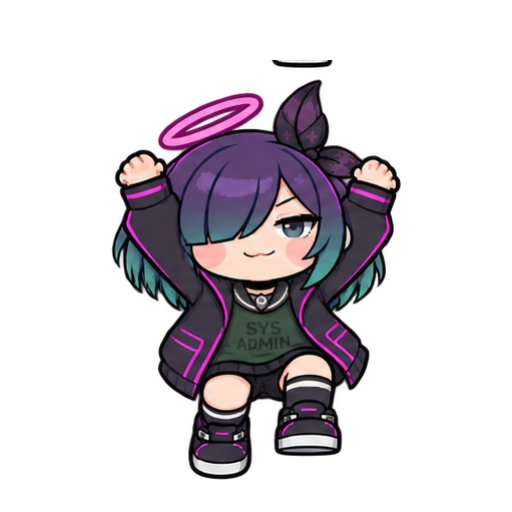
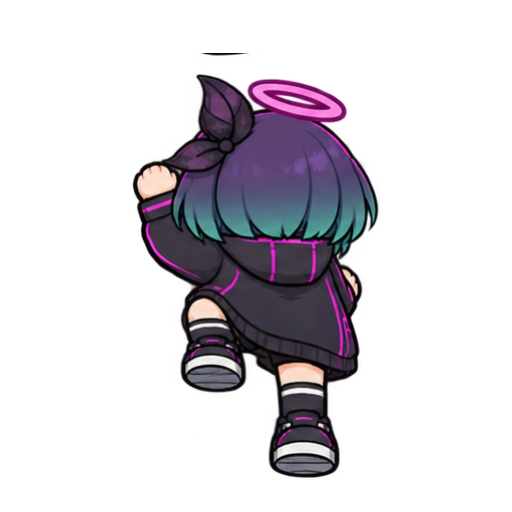
fix: show climbing animations from behind

Changed region(s): [[0.2188, 0.0938, 0.7812, 0.9375]]

diff --git a/docs/design/0008-window-climbing-behaviors.md b/docs/design/0008-window-climbing-behaviors.md
@@ -2,7 +2,7 @@
 id: 0008-window-climbing-behaviors
 title: Window Climbing Behaviors
 tier: M
-status: approved
+status: implemented
 issue:
 owner: antio
 created: 2026-09-20
@@ -26,10 +26,10 @@ created: 2026-09-20
 
 | ID | 수용 기준 | 검증 방법 |
 |---|---|---|
-| AC-1 | 애니메이션 패키지는 `rope_climb_*`, `free_climb_*` 의미 ID를 제공한다. | asset 파이프라인 테스트와 별도 아트 작업에서 검증한다. |
+| AC-1 | 애니메이션 패키지는 `rope_climb_*`, `free_climb_*` 의미 ID를 제공하며 prepare/loop는 캐릭터의 후면을 보여준다. finish는 상단 도달 뒤 canonical idle로 수렴한다. | asset 파이프라인 테스트와 scale audit sheet로 검증한다. |
 | AC-2 | 걷기 leading edge가 더 높은 전면/최상위 노출 Window의 좌/우 변과 만날 때, 그 창이 비최대화이고 두 상단 간 높이차가 pet 높이보다 크면 rope climb이 시작한다. 고정 X로 그 장애물 변을 올라가 해당 창 상단에서 idle한다. | `PetAnimationControllerTests`의 좌·우 edge, 최대화·taskbar·여백·비전면 음성 게이트 테스트. |
 | AC-3 | idle 자율 행동은 결정론적으로 1.25~3.0 pet-height 목표를 뽑아 fixed X로 free climb한다. 경로의 노출 창 상단을 만나면 idle, 목표까지 못 만나면 Falling이다. | `PetAnimationControllerTests`의 intercept/no-intercept geometry 및 trace 테스트. |
-| AC-4 | 새 클립의 raster artwork과 pack 등록은 아트 작업 단위에서 제공한다. | asset 파이프라인 테스트. |
+| AC-4 | 새 클립의 raster artwork과 pack 등록은 공통 512×512 캡처박스와 canonical idle calibration 기준을 사용한다. | asset 파이프라인 테스트와 frame metrics. |
 | AC-5 | rope climb 중 장애물 앵커가 더 이상 유효하지 않으면 Falling으로 전이한다. | `PetAnimationControllerTests` anchor-loss 테스트. |
 | AC-6 | drag 및 exit는 prepare/loop/finish 어느 단계든 클라이밍 transient state를 지우고 각각 drag/exit 상태로 전이한다. | `PetAnimationControllerTests` cleanup 테스트. |
 
@@ -41,6 +41,7 @@ created: 2026-09-20
 | Z-order | Windows provider는 `EnumWindows` 순서를 `ZOrder`로 보존하고 `DesktopSurfaceSelector.IsTopExposed`로 가려진 상단을 제외한다. | foreground 또는 최상위 노출 창만 climb 후보로 삼는다. |
 | 런타임 | `PetAnimationController`가 animation completion과 Tick 기반 이동을 함께 소유한다. | prepare/finish는 completion, loop 이동은 Tick으로 분리한다. |
 | 랜덤성 | `BehaviorPlanner`는 주입된 `IRandomSource`를 쓴다. | free-climb 높이도 planner에서 동일 random source로 샘플한다. |
+| 시점 | 등반 중 정면 포즈는 벽/밧줄과의 접촉 방향을 흐린다. | prepare/loop/finish action frame은 후면 또는 후면 3/4 시점으로 그리고, terminal calibration frame만 정면 idle을 사용한다. |
 
 ## 4. 유스케이스 / 시나리오
 
@@ -94,9 +95,9 @@ stateDiagram-v2
 
 | 상태 | 저장/이벤트 | UI 반응 |
 |---|---|---|
-| RopeClimbPreparing / FreeClimbPreparing | climb plan과 anchor를 보존한다. | prepare clip을 재생한다. |
-| RopeClimbing / FreeClimbing | fixed X, 시작 Y, 목표 Y를 보존하고 Tick마다 후보 top을 조회한다. | loop clip 재생 및 위로 이동한다. |
-| ClimbFinishing | 도착한 surface를 support로 보존한다. | finish clip 후 idle한다. |
+| RopeClimbPreparing / FreeClimbPreparing | climb plan과 anchor를 보존한다. | 후면 prepare clip을 재생한다. |
+| RopeClimbing / FreeClimbing | fixed X, 시작 Y, 목표 Y를 보존하고 Tick마다 후보 top을 조회한다. | 후면 loop clip 재생 및 위로 이동한다. |
+| ClimbFinishing | 도착한 surface를 support로 보존한다. | 후면 top-out frame과 canonical idle frame으로 구성된 finish clip 후 idle한다. |
 | Falling / DraggingIdle / Exiting | plan·anchor를 모두 비운다. | 기존 fall/drag/exit clip을 재생한다. |
 
 ## 9. 변경 지점
@@ -110,6 +111,9 @@ stateDiagram-v2
 | `src/Bolttagu.Platform.Windows/DesktopSurfaceProvider.cs` | foreground/maximized Windows query와 exposed obstacle/intercept. |
 | `tests/Bolttagu.Runtime.Tests/PetAnimationControllerTests.cs` | trace, geometry 및 negative-gate tests. |
 | `tests/Bolttagu.Architecture.Tests/DesktopSurfaceSelectorTests.cs` | deterministic front/top candidate selection tests. |
+| `asset/bolttagu/derived/model/*-climb-grid-v1.png` | 후면 rope/free climb 원본 시트와 마지막 idle 검수 셀. |
+| `asset/bolttagu/derived/model/canonical-idle-calibration-v1.png` | 클립 간 공통 스케일·발 기준선. |
+| `asset/bolttagu/derived/animations/pack.json` | 6개 climb clip의 타이밍과 runtime frame 등록. |
 | `docs/design/0008-window-climbing-behaviors.md` | this feature contract. |
 
 ## 10. 잠재 문제 & 대응
@@ -118,11 +122,13 @@ stateDiagram-v2
 |---|---|
 | EnumWindows와 foreground가 관찰 사이에 바뀔 수 있다. | 매 Tick anchor를 refresh하며 false면 fall한다. |
 | 창 테두리 DPI 변환에 1px 오차가 있다. | 기존 provider와 같이 overlay DPI를 사용하고 top snap만 provider bounds를 신뢰한다. |
-| 새 art pack이 런타임보다 늦게 등록될 수 있다. | runtime은 semantic clip만 선언하고 asset 작업이 pack coverage를 검증한다. |
+| 생성 시트마다 머리·몸 비율이 달라질 수 있다. | 각 시트 마지막 idle은 육안 비교용으로 두고, 실제 빌드는 공유 canonical idle의 alpha bounds로 scale을 고정한다. |
+| 후면 climb에서 idle로 전환할 때 시점이 튈 수 있다. | finish action frame을 top-out 후면 포즈로 제한하고 terminal frame을 공통 idle로 고정한다. |
 
 ## 11. 착수 순서
 
-- [ ] 0. art producer가 semantic clip raster와 pack coverage를 추가한다. (AC-1, AC-4)
+- [x] 0. art producer가 후면 semantic clip raster와 pack coverage를 추가한다. (AC-1, AC-4)
 - [x] 1. DesktopSurface metadata와 deterministic selector/provider query를 추가한다. (AC-2, AC-3, AC-5)
 - [x] 2. clip/state/planner contract와 rope/free climb runtime slice를 추가한다. (AC-2, AC-3, AC-6)
 - [x] 3. geometry, negative-gate, interrupt cleanup 테스트를 추가하고 관련 suite를 실행한다. (AC-2, AC-3, AC-5, AC-6)
+- [x] 4. canonical idle calibration, scale audit, 전체 65개 테스트로 아트/런타임 통합을 검증한다. (AC-1~AC-6)

diff --git a/docs/design/0007-animation-transition-grammar.md b/docs/design/0007-animation-transition-grammar.md
@@ -137,7 +137,7 @@ stateDiagram-v2
 | Dragging | pose=Hanging, velocity filter | release는 surface 거리와 무관하게 Falling으로 전이. |
 | Falling | pose=Airborne, fall origin, landing target | fall loop; motion 완료가 Landing을 발생시킴. |
 | Landing/Recovering | pose=GroundedCompressed → Standing | 낮은 낙하는 impact clip, 260px 이상 낙하는 착석·어지럼·한 번의 기상을 포함한 단일 recovery clip을 끝낸 뒤 IdleHub로 간다. |
-| Climbing *(후속)* | pose=Climbing, wall/top surface, progress | wall 상실 시 Falling; 정상 완료 시 top landing/recover. |
+| Climbing | pose=Climbing, wall/top surface, progress | wall 상실 시 Falling; 정상 완료 시 후면 top-out과 canonical idle을 거쳐 IdleHub. |
 | Exiting | 모든 behavior 임시 상태 제거, exit deadline | despawn 외 입력 무시, 완료/timeout 후 종료. |
 
 ### 자세 계약
@@ -149,7 +149,7 @@ stateDiagram-v2
 | Hanging | drag_held_idle, drag_pulled | Airborne만 허용 |
 | Airborne | fall | GroundedCompressed만 허용 |
 | GroundedCompressed | drop_land, land_recover | Standing |
-| Climbing | climb_prepare, climb_loop, climb_finish | top landing 또는 Airborne |
+| Climbing | rope/free climb_prepare, climb_loop, climb_finish | top landing의 Standing 또는 Airborne |
 
 ### 우선순위와 중단
 
@@ -172,7 +172,8 @@ stateDiagram-v2
 | LookAround | 25 | Standing | `LookAround` |
 | Stretch | 20 | Standing | `Stretch` |
 | SitDoze | 15 | locomotion 후 8초, 사용자 입력 후 10초 경과 | `SitDown → SitSettle[1..2] → DozeEnter → DozeLoop[2..5] → WakeUp → StandUp` |
-| WallClimb *(후속)* | 별도 튜닝 | 도달 가능한 수직면·상단 surface 존재 | `WalkToWall → ClimbPrepare → ClimbLoop[n] → ClimbFinish → LandRecover` |
+| RopeClimb | 별도 튜닝 | 보행 중 더 높은 전면 비최대화 창의 좌/우 변과 충돌 | `Walk → RopeClimbPrepare → RopeClimbLoop[n] → RopeClimbFinish → IdleHub` |
+| FreeClimb | 별도 튜닝 | IdleHub random 선택과 1.25~3.0 pet-height 목표 | `IdleHub → FreeClimbPrepare → FreeClimbLoop[n] → (ClimbFinish → IdleHub | Falling)` |
 
 ## 7. 타이밍 (sequence) *(선택 — 이 tier 에선 생략 가능)*
 
@@ -207,7 +208,7 @@ stateDiagram-v2
 | click 자세별 reaction을 전부 만들면 아트 비용이 커진다. | 첫 버전은 Standing click과 DozeStartle만 만들고, 전용 bridge가 없는 posture에서는 pose를 깨는 fallback clip을 재생하지 않는다. |
 | drag release 직후 실제 낙하 거리가 0px일 수 있다. | Falling을 최소 한 Tick 유지한 뒤 같은 surface에 landing해도 fall→land 인과 trace와 최소 anticipation frame을 보장한다. 낙하 시작 top과 착지 top의 차이가 260px 이상일 때만 어지럼 회복을 추가한다. |
 | 최근 2개 반복 금지로 후보가 모두 제거될 수 있다. | IdleBreathe를 행동이 아닌 안전 fallback으로 두고 다음 deadline에 다시 선택한다. |
-| wall climb은 occlusion·수직면 탐색이 아직 없다. | grammar에는 pose와 중단 계약만 예약하고, geometry가 구현될 때까지 eligibility가 항상 false인 후속 behavior로 둔다. |
+| climb 중 앵커 창이 닫히거나 가려질 수 있다. | Tick마다 앵커를 재검증하고 유효하지 않으면 transient climb state를 지운 뒤 Falling으로 전이한다. |
 
 ## 11. 착수 순서
 

diff --git a/README.md b/README.md
@@ -1,7 +1,7 @@
 # Bolttagu Desktop Pet
 
 독립 실행되는 Windows용 볼따구 데스크톱 펫이다. Engram은 필수 구성 요소가 아니며,
-현재 투명 창에서 atlas 기반 등장·idle·walk·turn·click/huff·drag/fall/land·퇴장 애니메이션을 재생하고,
+현재 투명 창에서 atlas 기반 등장·idle·walk·turn·click/huff·drag/fall/land·climb·퇴장 애니메이션을 재생하고,
 지지 창의 닫힘·가림·이동과 보행 중 가장자리 이탈에 즉시 반응한다. 자산 손상 시 정적 또는
 벡터 fallback으로 복구한다.
 
@@ -28,6 +28,9 @@ $dotnetExe = Join-Path $PWD '.dotnet\dotnet.exe'
 - 드래그로 창을 옮길 때는 클릭 반응을 실행하지 않는다.
 - 캐릭터가 선 창이 닫히거나 다른 창 뒤로 가려지면 다음 노출 표면까지 낙하한다.
 - 자율 보행 중 현재 표면의 가장자리를 벗어나도 같은 낙하·착지 흐름을 사용한다.
+- 걷다가 더 높은 전면 창의 좌우 변을 만나면 후면 rope-climb으로 올라가 그 창 상단에 착지한다.
+- idle 중에는 후면 free-climb이 임의 높이까지 발동하며, 노출된 창 상단을 만나면 착지하고
+  만나지 못하면 기존 낙하 흐름으로 이어진다.
 - 오른쪽 메뉴 또는 트레이에서 숨김·표시·종료를 선택한다.
 - 실행 시 `spawn_in` 뒤 idle로 진입하고, 정상 종료 시 `despawn_out`을 마친 뒤 창을 닫는다.
 - 캐릭터 아래의 표시는 현재 WPF DPI scale이다.
@@ -52,3 +55,4 @@ Engram에서 가져온 원본은 `asset/bolttagu/upstream` 아래의 불변 snap
 - `docs/design/0005-live-surface-reactions.md`
 - `docs/design/0006-velocity-drag-lifecycle.md`
 - `docs/design/0007-animation-transition-grammar.md`
+- `docs/design/0008-window-climbing-behaviors.md`

diff --git a/asset/bolttagu/README.md b/asset/bolttagu/README.md
@@ -45,6 +45,9 @@ not begin from a `candidate` model.
   `canonical-idle-calibration-v1.png`, so separate sheets cannot quietly redefine head/body scale.
   Legacy sheets may use the shared `turnaround-v1.png` idle rectangle as a compatibility bridge;
   this does not mean the legacy sheet itself contains an idle cell.
+- Rope/free climbing prepare and loop cells use a rear view so hands, feet, rope, and implied wall
+  share one contact direction. The final action cell may use a rear three-quarter top-out pose;
+  only the emitted canonical idle calibration frame faces front.
 - `drag_held_idle` and `drag_pulled` use a top-aligned scruff anchor at `Y=104`; they are reviewed
   separately from the grounded foot pivot. The held loop keeps the body centered, while the pulled
   loop sends the body and every limb in the same trailing direction and mirrors at runtime.
